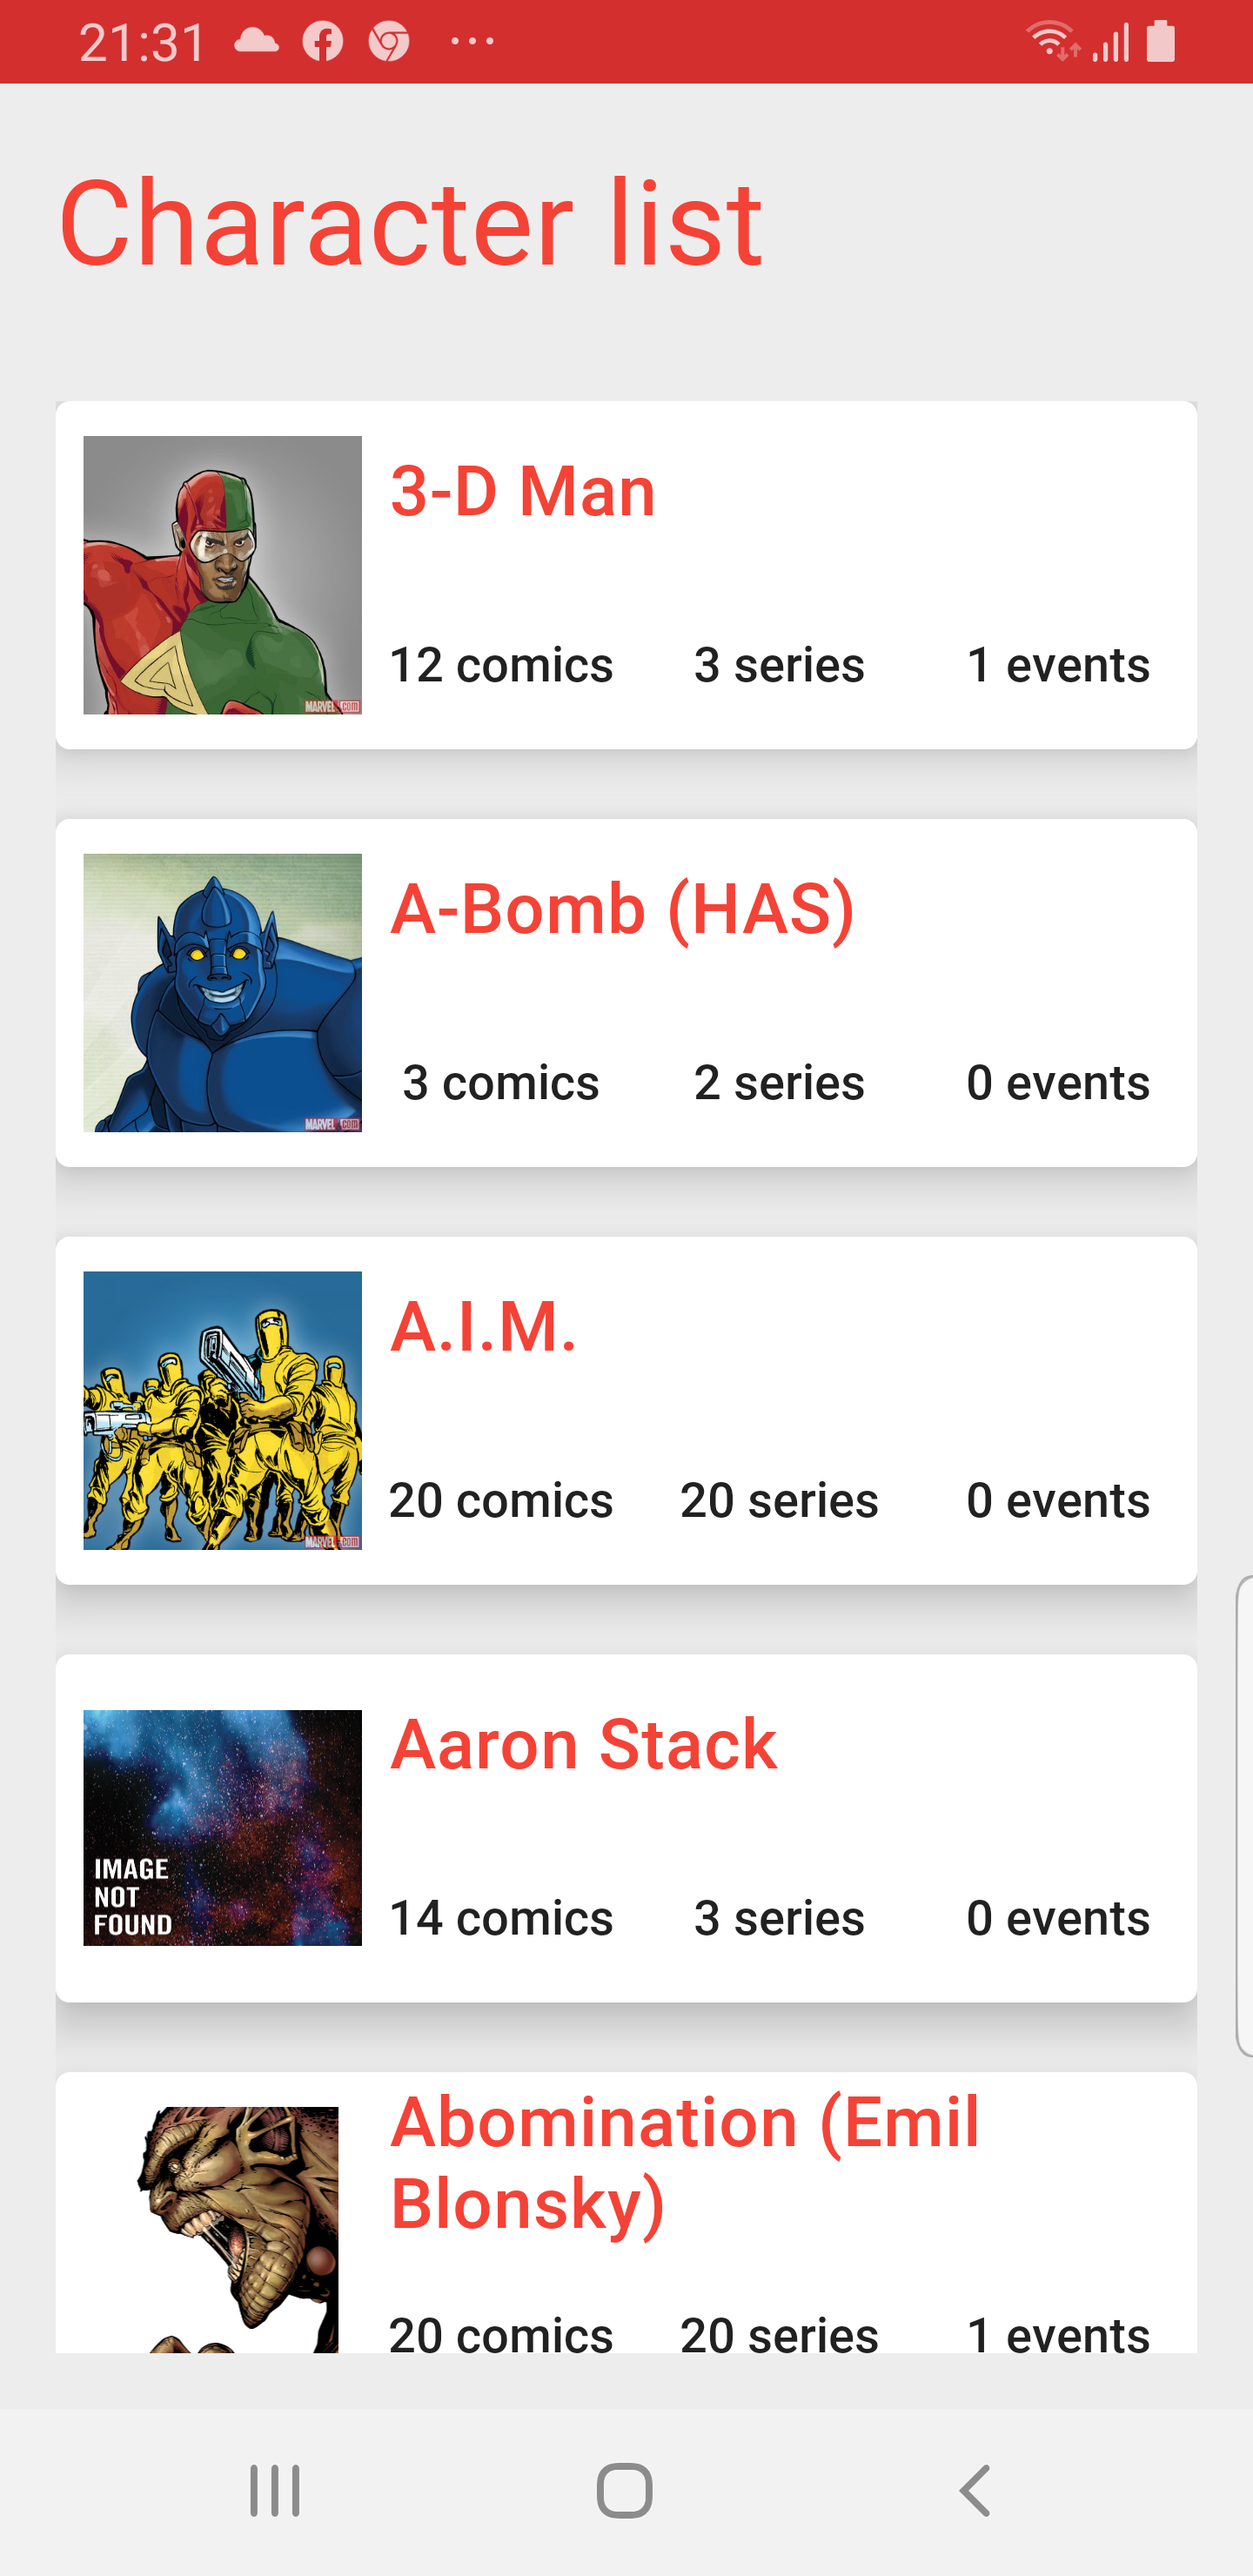
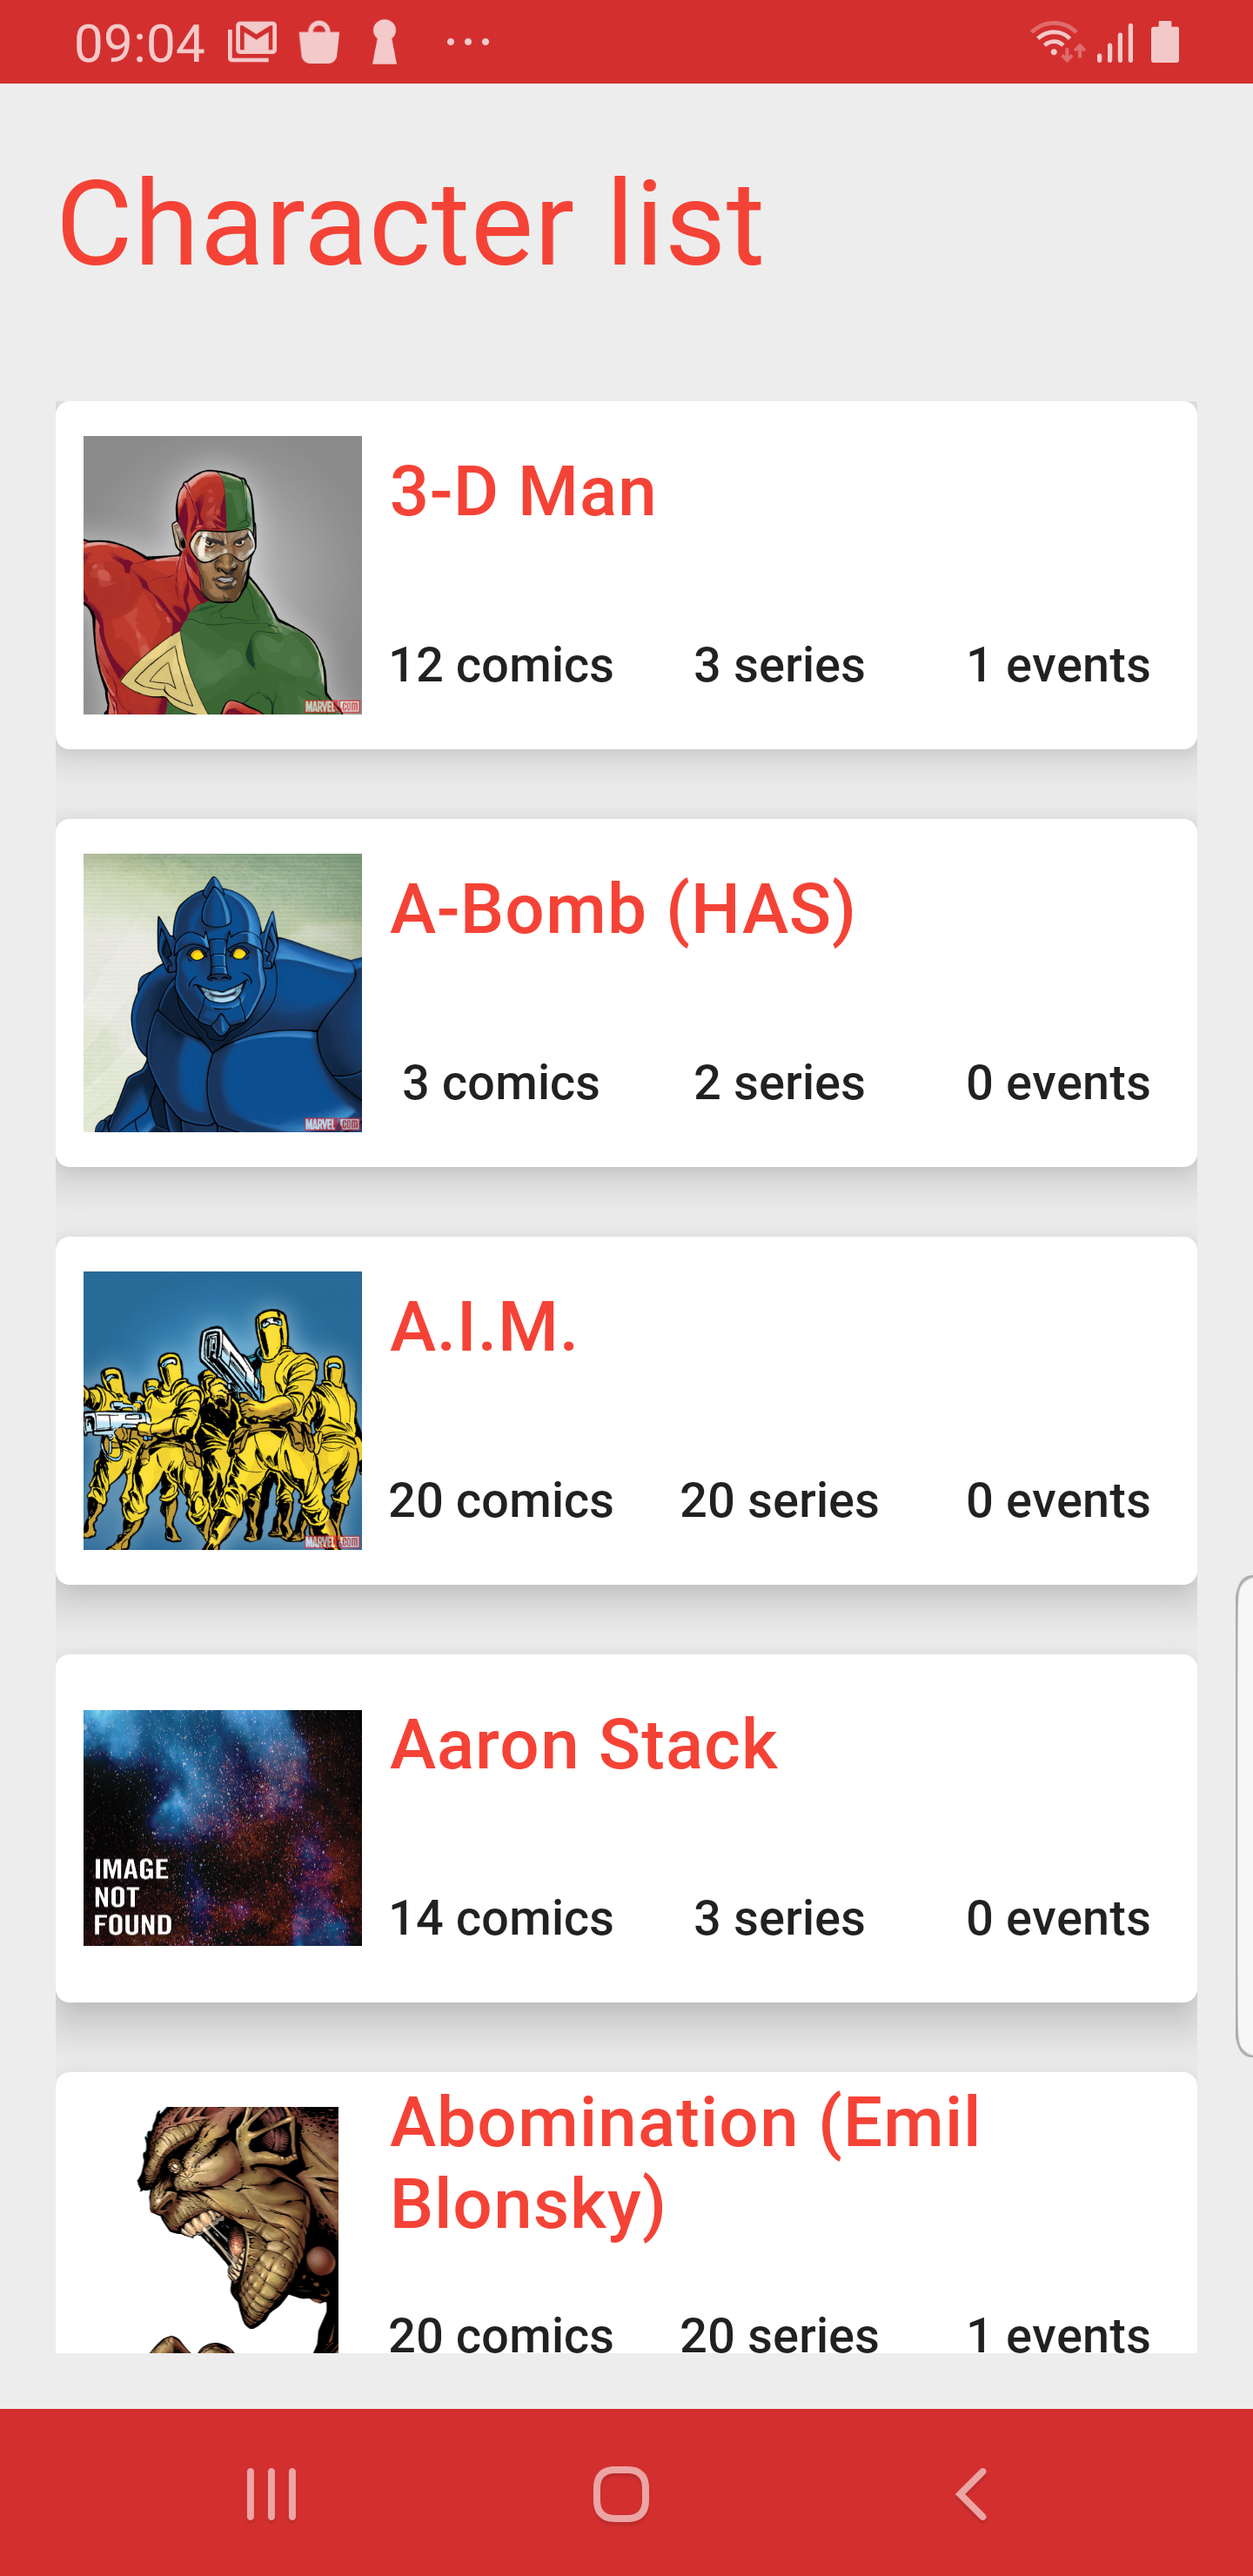
Add Character Detail

diff --git a/app/src/main/java/sanchez/sanchez/sergio/androidmobiletest/ui/features/characterdetail/CharacterDetailFragment.kt b/app/src/main/java/sanchez/sanchez/sergio/androidmobiletest/ui/features/characterdetail/CharacterDetailFragment.kt
@@ -2,15 +2,19 @@ package sanchez.sanchez.sergio.androidmobiletest.ui.features.characterdetail
 
 import android.os.Bundle
 import android.view.View
+import androidx.annotation.StringRes
 import androidx.appcompat.app.AppCompatActivity
 import androidx.navigation.fragment.navArgs
+import com.google.android.material.dialog.MaterialAlertDialogBuilder
 import kotlinx.android.synthetic.main.character_detail.*
 import sanchez.sanchez.sergio.androidmobiletest.R
 import sanchez.sanchez.sergio.androidmobiletest.di.component.character.CharacterDetailFragmentComponent
 import sanchez.sanchez.sergio.androidmobiletest.di.factory.DaggerComponentFactory
 import sanchez.sanchez.sergio.androidmobiletest.domain.models.CharacterDetail
+import sanchez.sanchez.sergio.androidmobiletest.domain.models.ComicsItem
 import sanchez.sanchez.sergio.androidmobiletest.ui.core.SupportFragment
 import sanchez.sanchez.sergio.androidmobiletest.ui.core.ext.loadFromCacheIfExists
+import sanchez.sanchez.sergio.androidmobiletest.ui.core.ext.popBackStack
 import timber.log.Timber
 import java.text.SimpleDateFormat
 import java.util.*
@@ -86,7 +90,10 @@ class CharacterDetailFragment: SupportFragment<CharacterDetailViewModel>(Charact
                 getString(R.string.character_comic_value), character.comics.available)
             if(character.comics.items.isNotEmpty())
                 addAction {
-                    Timber.d("Show Comic Clicked")
+                    showDetailDialog(
+                        titleRes = R.string.character_comic_dialog_detail_title,
+                        items = character.comics.items
+                    )
                 }
         }
 
@@ -95,7 +102,10 @@ class CharacterDetailFragment: SupportFragment<CharacterDetailViewModel>(Charact
                 getString(R.string.character_series_value), character.series.available)
             if(character.series.items.isNotEmpty())
                 addAction {
-                    Timber.d("Show Series Clicked")
+                    showDetailDialog(
+                        titleRes = R.string.character_series_dialog_detail_title,
+                        items = character.series.items
+                    )
                 }
         }
 
@@ -104,7 +114,10 @@ class CharacterDetailFragment: SupportFragment<CharacterDetailViewModel>(Charact
                 getString(R.string.character_events_value), character.events.available)
             if(character.events.items.isNotEmpty())
                 addAction {
-                    Timber.d("Show Events Clicked")
+                    showDetailDialog(
+                        titleRes = R.string.character_events_dialog_detail_title,
+                        items = character.events.items
+                    )
                 }
         }
 
@@ -117,7 +130,26 @@ class CharacterDetailFragment: SupportFragment<CharacterDetailViewModel>(Charact
      * @param ex
      */
     private fun onErrorOccurred(ex: Exception) {
-
+        Timber.d("OnErrorOccurred -> ${ex.message}")
+        MaterialAlertDialogBuilder(requireContext())
+            .setMessage(resources.getString(R.string.character_detail_error))
+            .setPositiveButton(resources.getString(R.string.character_detail_error_accept_button)) { dialog, which ->
+                popBackStack(R.id.characterListFragment)
+            }
+            .show()
     }
+
+    /**
+     * Show Detail Dialog
+     * @param titleRes
+     * @param items
+     */
+    private fun showDetailDialog(@StringRes titleRes: Int, items: List<ComicsItem>) {
+        MaterialAlertDialogBuilder(requireContext())
+            .setTitle(titleRes)
+            .setItems(items.map { it.name }.toTypedArray(), null)
+            .show()
+    }
+
 
 }

diff --git a/app/src/main/java/sanchez/sanchez/sergio/androidmobiletest/persistence/db/repository/character/CharacterDBRepositoryImpl.kt b/app/src/main/java/sanchez/sanchez/sergio/androidmobiletest/persistence/db/repository/character/CharacterDBRepositoryImpl.kt
@@ -19,7 +19,7 @@ open class CharacterDBRepositoryImpl (
     override suspend fun findCharactersOrderByNameAsc(): List<Character> = withContext(Dispatchers.IO) {
         try {
             val characters = characterDAO.findAllOrderByNameAsc()
-            // If not transactions found, throw exception
+            // If not characters found, throw exception
             if(characters.isEmpty())
                 throw DBNoResultException("No characters have been found")
             characterDBMapper.entityToModel(characters)
@@ -34,10 +34,10 @@ open class CharacterDBRepositoryImpl (
         try {
             // First, remove old data
             characterDAO.deleteAll()
-            // Insert new transactions data
+            // Insert new characters data
             characterDAO.insert(characterDBMapper.modelToEntity(characterList))
         } catch (ex: Exception) {
-            throw DBErrorException("Error occurred when Save transactions", ex)
+            throw DBErrorException("Error occurred when save characters", ex)
         }
     }
 
@@ -45,7 +45,7 @@ open class CharacterDBRepositoryImpl (
         try {
             characterDAO.deleteAll()
         } catch (ex: Exception) {
-            throw DBErrorException("Error occurred when Delete characters", ex)
+            throw DBErrorException("Error occurred when delete characters", ex)
         }
     }
 

diff --git a/app/src/main/java/sanchez/sanchez/sergio/androidmobiletest/ui/core/ext/NavigationExt.kt b/app/src/main/java/sanchez/sanchez/sergio/androidmobiletest/ui/core/ext/NavigationExt.kt
@@ -1,9 +1,7 @@
 package sanchez.sanchez.sergio.androidmobiletest.ui.core.ext
 
-import android.os.Bundle
 import androidx.annotation.IdRes
 import androidx.fragment.app.Fragment
-import androidx.navigation.ActivityNavigator
 import androidx.navigation.NavDirections
 import androidx.navigation.fragment.NavHostFragment
 
@@ -13,31 +11,10 @@ import androidx.navigation.fragment.NavHostFragment
 
 /**
  * Navigate
- * @param action
- * @param args
- */
-fun Fragment.navigate(@IdRes action: Int, args: Bundle? = null) {
-    val navController = NavHostFragment.findNavController(this)
-    navController.currentDestination?.getAction(action)?.let {
-        navController.navigate(action, args)
-    }
-}
-
-/**
- * Navigate
  * @param navDirections
  */
 fun Fragment.navigate(navDirections: NavDirections) {
     NavHostFragment.findNavController(this).navigate(navDirections)
-}
-
-/**
- *
- */
-fun Fragment.navigate(destination: ActivityNavigator.Destination) {
-    ActivityNavigator(context!!).navigate(
-        destination, null, null, null
-    )
 }
 
 fun Fragment.popBackStack(@IdRes idFragmentRes: Int) {

diff --git a/app/src/main/java/sanchez/sanchez/sergio/androidmobiletest/ui/core/ext/ImageExt.kt b/app/src/main/java/sanchez/sanchez/sergio/androidmobiletest/ui/core/ext/ImageExt.kt
@@ -3,8 +3,6 @@ package sanchez.sanchez.sergio.androidmobiletest.ui.core.ext
 import android.widget.ImageView
 import com.bumptech.glide.Glide
 import com.bumptech.glide.load.engine.DiskCacheStrategy
-import com.bumptech.glide.load.resource.bitmap.CenterCrop
-import com.bumptech.glide.load.resource.bitmap.RoundedCorners
 import com.bumptech.glide.load.resource.drawable.DrawableTransitionOptions
 import com.bumptech.glide.request.RequestOptions
 import com.bumptech.glide.request.transition.DrawableCrossFadeFactory

diff --git a/app/src/main/java/sanchez/sanchez/sergio/androidmobiletest/ui/MainActivity.kt b/app/src/main/java/sanchez/sanchez/sergio/androidmobiletest/ui/MainActivity.kt
@@ -19,9 +19,6 @@ class MainActivity: AppCompatActivity() {
         activityComponent.inject(this)
         super.onCreate(savedInstanceState)
         setContentView(R.layout.main_activity)
-
-        window.addFlags(WindowManager.LayoutParams.FLAG_DRAWS_SYSTEM_BAR_BACKGROUNDS)
-        window.statusBarColor = ContextCompat.getColor(this, R.color.colorPrimaryDark)
     }
 
 }

diff --git a/app/src/main/java/sanchez/sanchez/sergio/androidmobiletest/persistence/db/room/dao/core/ISupportDAO.kt b/app/src/main/java/sanchez/sanchez/sergio/androidmobiletest/persistence/db/room/dao/core/ISupportDAO.kt
@@ -22,7 +22,7 @@ interface ISupportDAO<T> {
      * Insert an object in the database.
      *
      * @param entity the object to be inserted.
-     * @return The SQLite row userPublicId
+     * @return The SQLite row
      */
     @Insert(onConflict = OnConflictStrategy.IGNORE)
     @Transaction

diff --git a/app/src/main/java/sanchez/sanchez/sergio/androidmobiletest/persistence/network/exception/NetworkExceptions.kt b/app/src/main/java/sanchez/sanchez/sergio/androidmobiletest/persistence/network/exception/NetworkExceptions.kt
@@ -1,5 +1,9 @@
 package sanchez.sanchez.sergio.androidmobiletest.persistence.network.exception
 
+/**
+ * Network Exceptions
+ */
+
 class NetworkBadRequestException(message: String? = null, cause: Throwable? = null):
     NetworkException(message, cause)
 

diff --git a/README.md b/README.md
@@ -5,3 +5,11 @@ Android Mobile Test
 
 <img width="250px" align="left" src="./screenshots/image_1.png" />
 <img width="250px" align="left" src="./screenshots/image_2.png" />
+<img width="250px" align="left" src="./screenshots/image_3.png" />
+<img width="250px" align="left" src="./screenshots/image_4.png" />
+<img width="250px" align="left" src="./screenshots/image_5.png" />
+<img width="250px" align="left" src="./screenshots/image_6.png" />
+
+
+## Tests
+<img width="250px" align="left" src="./screenshots/image_7.png" />
